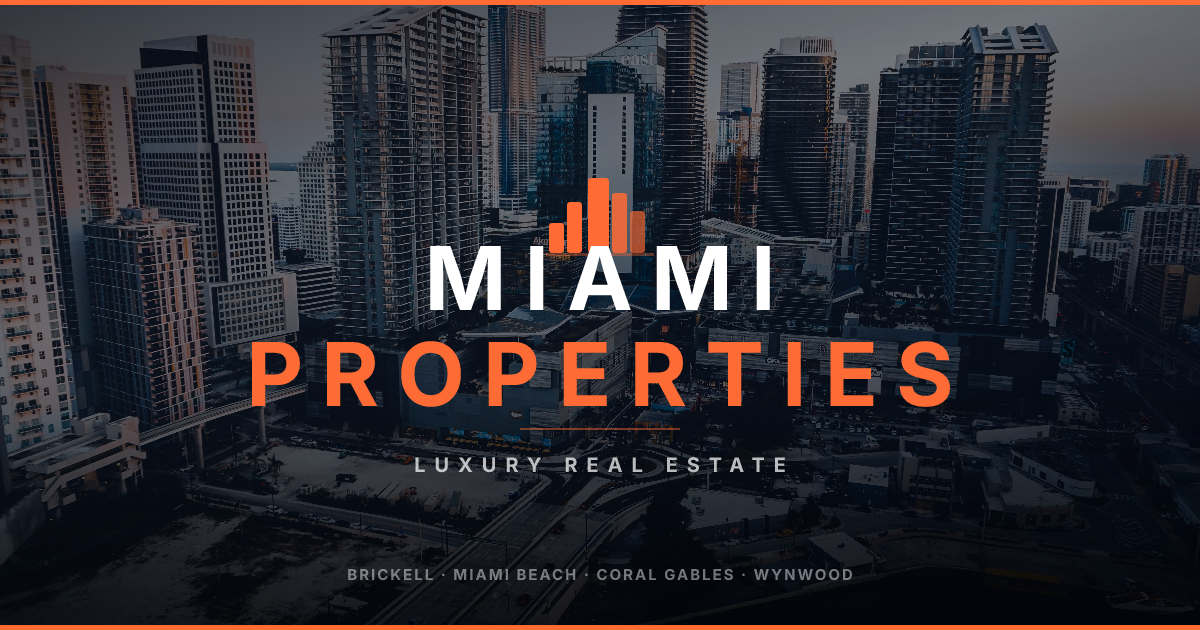
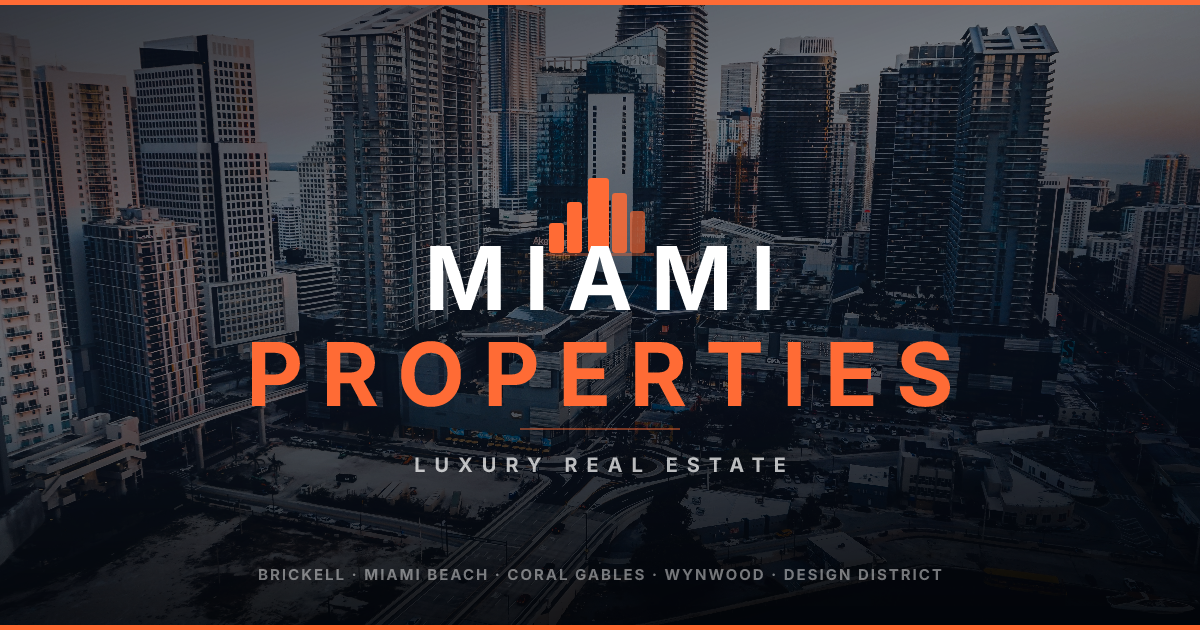
Add Design District to all neighborhood mentions and OG image

Changed region(s): [[0.2158, 0.9048, 0.7708, 0.9349]]

diff --git a/index.html b/index.html
@@ -3,7 +3,7 @@
 <head>
   <meta charset="UTF-8">
   <meta name="viewport" content="width=device-width, initial-scale=1.0, viewport-fit=cover">
-  <meta name="description" content="Private access to off-market luxury properties in Brickell, Miami Beach, Coral Gables, and Wynwood. Work with Miami's top real estate advisors.">
+  <meta name="description" content="Private access to off-market luxury properties in Brickell, Miami Beach, Coral Gables, Wynwood, and Design District. Work with Miami's top real estate advisors.">
   <meta property="og:type"        content="website">
   <meta property="og:url"         content="__SITE_URL__">
   <meta property="og:title"       content="Miami Properties — Luxury Real Estate in Brickell & Miami Beach">
@@ -776,7 +776,7 @@
           </div>
         </div>
 
-        <div class="badge">Brickell &nbsp;·&nbsp; Miami Beach &nbsp;·&nbsp; Coral Gables &nbsp;·&nbsp; Wynwood</div>
+        <div class="badge">Brickell &nbsp;·&nbsp; Miami Beach &nbsp;·&nbsp; Coral Gables &nbsp;·&nbsp; Wynwood &nbsp;·&nbsp; Design District</div>
 
         <h1>Live Where Miami's Elite<br>Call Home</h1>
         <p class="sub">Private access to off-market listings across Miami's most coveted neighborhoods, with top advisors in your corner from search to close.</p>
@@ -868,7 +868,7 @@
 
   <!-- ═══════════════════════════ TRUST BAR ══════════════════════════════ -->
   <div class="trust-bar">
-    Miami's most trusted real estate advisors &nbsp;·&nbsp; Brickell &nbsp;·&nbsp; Miami Beach &nbsp;·&nbsp; Coral Gables &nbsp;·&nbsp; Wynwood
+    Miami's most trusted real estate advisors &nbsp;·&nbsp; Brickell &nbsp;·&nbsp; Miami Beach &nbsp;·&nbsp; Coral Gables &nbsp;·&nbsp; Wynwood &nbsp;·&nbsp; Design District
   </div>
 
   <!-- ══════════════════════════ BENEFITS ═══════════════════════════════ -->

diff --git a/src/email.ts b/src/email.ts
@@ -93,7 +93,7 @@ function confirmationHtml(lead: Lead): string {
         <!-- Footer -->
         <tr><td style="background:#f8f9fb;border-radius:0 0 14px 14px;padding:20px 40px;text-align:center;border-top:1px solid #e5e7eb;">
           <p style="margin:0 0 5px;font-size:12px;color:#9ca3af;letter-spacing:0.06em;">
-            Brickell &nbsp;&middot;&nbsp; Miami Beach &nbsp;&middot;&nbsp; Coral Gables &nbsp;&middot;&nbsp; Wynwood
+            Brickell &nbsp;&middot;&nbsp; Miami Beach &nbsp;&middot;&nbsp; Coral Gables &nbsp;&middot;&nbsp; Wynwood &nbsp;&middot;&nbsp; Design District
           </p>
           <p style="margin:0;font-size:11px;color:#d1d5db;">&copy; 2025 Miami Properties. All rights reserved.</p>
         </td></tr>

diff --git a/src/og.ts b/src/og.ts
@@ -81,7 +81,7 @@ function buildSvg(heroUri: string): string {
   <text x="600" y="580"
     font-family="Arial, Helvetica, sans-serif"
     font-size="15" fill="rgba(255,255,255,0.45)"
-    text-anchor="middle" letter-spacing="2">BRICKELL  ·  MIAMI BEACH  ·  CORAL GABLES  ·  WYNWOOD</text>
+    text-anchor="middle" letter-spacing="2">BRICKELL · MIAMI BEACH · CORAL GABLES · WYNWOOD · DESIGN DISTRICT</text>
 
   <!-- Orange bottom bar -->
   <rect x="0" y="625" width="1200" height="5" fill="#FF6B35"/>
